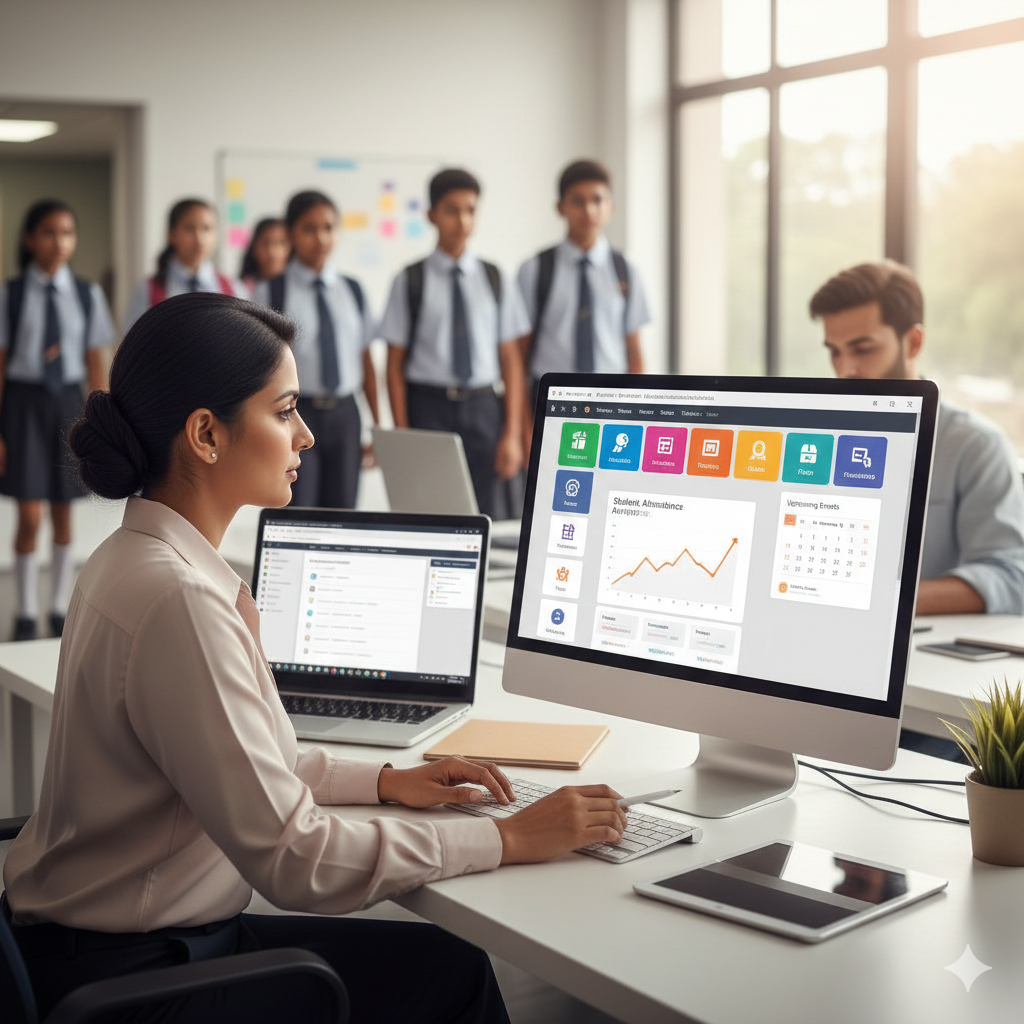
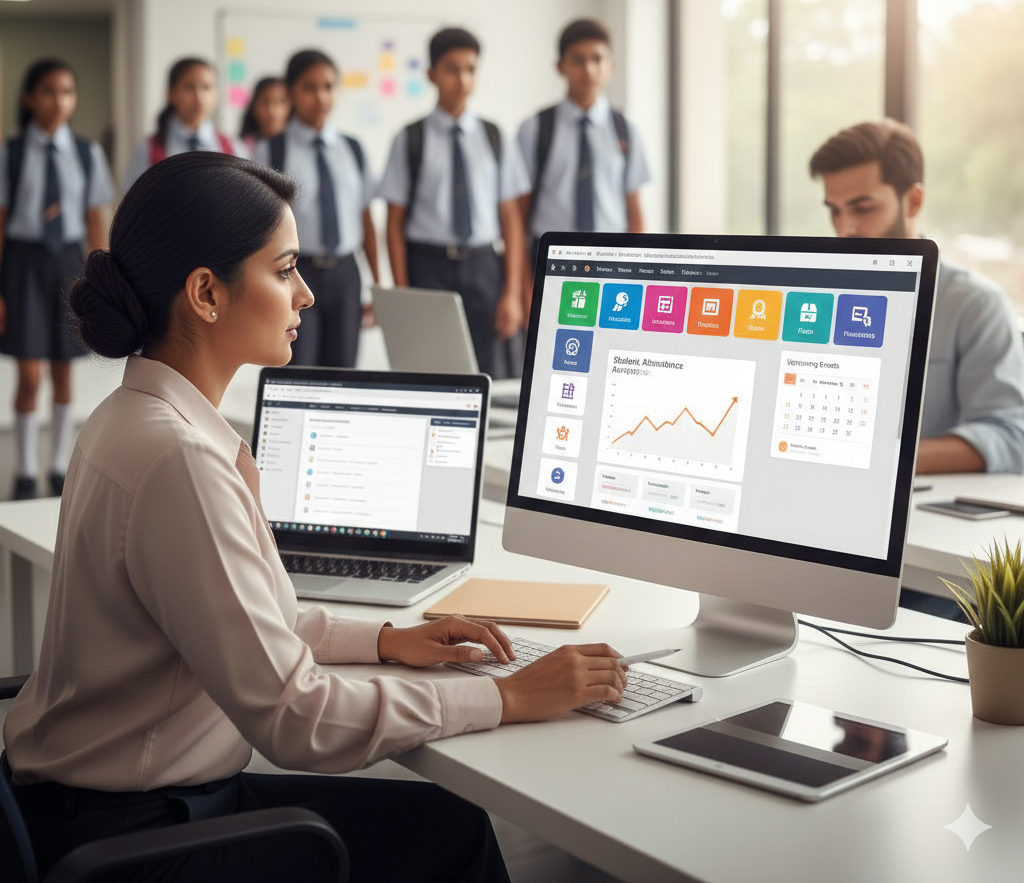
Refactor code structure for improved readability and maintainability

diff --git a/components/custom/shared/AboutUs.tsx b/components/custom/shared/AboutUs.tsx
@@ -14,7 +14,9 @@ export default function AboutUs() {
           </p>
           <div className="xl:h-full sm:h-110 h-96">
             <TopProductsSlider />
-            <h2 className="text-xl sm:text-2xl font-semibold mt-4 text-center">Top Products</h2>
+            <h2 className="text-xl sm:text-2xl font-semibold mt-4 text-center">
+              Top Products
+            </h2>
           </div>
         </div>
 
@@ -22,7 +24,7 @@ export default function AboutUs() {
         <div className="w-full space-y-6 sm:space-y-8">
           <h2 className="">
             <HighlightedText
-              text="Our Stories on Begins Passion Driven by Purpose, and Fueled by a Relentless Pursuit of Results and Client Real Success."
+              text="Crafting powerful digital solutions to elevate your business experience."
               className="
             text-3xl sm:text-4xl lg:text-5xl
             font-semibold
@@ -40,11 +42,7 @@ export default function AboutUs() {
 
           <div className="ml-0 xl:ml-20 space-y-6">
             <p className="text-sm sm:text-base leading-relaxed">
-              Recognize that exceptional customer experiences are at the heart
-              of every successful business. Our Customer Experience Solutions
-              are crafted to help you transform every interaction your customers
-              have with your brand business into a meaningful and positive
-              experience. We believe that understanding the customer.
+              Since 2024, <span className="text-primary">DigIT-Hack</span> has been helping businesses transform their ideas into powerful digital solutions. Through smart technology and innovative thinking, we build websites, mobile apps, and complete management systems that simplify operations, enhance customer experiences, and support sustainable business growth. By combining creativity, technical expertise, and a collaborative approach, we deliver solutions that create real impact and long-term success.
             </p>
 
             {/* STATS */}
@@ -61,10 +59,10 @@ export default function AboutUs() {
             >
               <div className="w-1/2">
                 <h2 className="text-4xl sm:text-6xl lg:text-7xl font-semibold">
-                  20M
+                  200+
                 </h2>
                 <p className="text-sm sm:text-base">
-                  Reach Worldwide empower dreams everywhere.
+                  Projects delivered with excellence and innovation.
                 </p>
               </div>
 

diff --git a/lib/DB/ui/images.ts b/lib/DB/ui/images.ts
@@ -9,7 +9,7 @@ import studio from "@/public/images/brandLogo/studio.png";
 import onebite from "@/public/images/brandLogo/onebite.png";
 import barc from "@/public/images/brandLogo/BARC-Logo.svg";
 import retailSoftware from "@/public/images/retailsoftware.jpeg";
-import healthcareSoftware from "@/public/images/healthcareSoftware.jpg";
+import hospitalityManagement from "@/public/images/hospitalityManagement.png";
 import schoolManagement from "@/public/images/schoolManagement.png";
 import digitalMarketing from "@/public/images/DigitalMarketing.png";
 import restaurantManagement from "@/public/images/restaurantManagement.png";
@@ -22,11 +22,12 @@ import prestige from "@/public/images/brandLogo/prestige.jpg";
 import cultfit from "@/public/images/brandLogo/cultfit.jpg";
 import orchid from "@/public/images/brandLogo/orchid.jpg";
 import delhiPublic from "@/public/images/brandLogo/delhiPublic.png";
+import BillingSoftware2 from "@/public/images/BillingSoftware2.jpg";
 export const PRODUCT_IMAGES = {
   "restaurant-management": restaurantManagement,
   "gym-management": gymManagement,
   "salon-management": salonManagement,
-  "hospital-management": healthcareSoftware,
+  "hospital-management": hospitalityManagement,
   "transport-management": transportManagement,
   "school-management": schoolManagement,
   "billing-software": billingSoftware,
@@ -35,11 +36,12 @@ export const PRODUCT_IMAGES = {
 } as const;
 export const BLOCK_IMAGES = {
   transportManagement1,
+  BillingSoftware2,
 } as const;
 
 export const SERVICE_IMAGES = {
   "retail": retailSoftware,
-  "hospitality": healthcareSoftware,
+  "hospitality": hospitalityManagement,
   "institutional": schoolManagement,
   "web-app": digitalMarketing,
   "digital-marketing": digitalMarketing,

diff --git a/app/services/[slug]/page.tsx b/app/services/[slug]/page.tsx
@@ -59,12 +59,15 @@ export default async function ServicePage({ params }: PageProps) {
       <Section>
         <div className="flex flex-col lg:flex-row gap-10">
           <div className="left flex-1">
-            <div className="relative h-[40vh] sm:h-[50vh] lg:h-[60vh]">
+            <div className="w-full">
               <Image
                 src={service.image}
                 alt={service.title}
-                fill
-                className="rounded-xl object-cover"
+                width={1600}
+                height={900}
+                className="rounded-xl w-full h-auto"
+                sizes="100vw"
+                priority
               />
             </div>
 

diff --git a/app/services/[slug]/[productSlug]/page.tsx b/app/services/[slug]/[productSlug]/page.tsx
@@ -59,7 +59,7 @@ if (!product) return <ComingSoonPage />
 
       <Section>
         <div>
-          <div className="relative h-[40vh] sm:h-[50vh] lg:h-[60vh]">
+          <div className="relative h-[40vh] sm:h-[60vh] lg:h-[70vh]">
             <Image
               src={product.image}
               alt={product.title}
